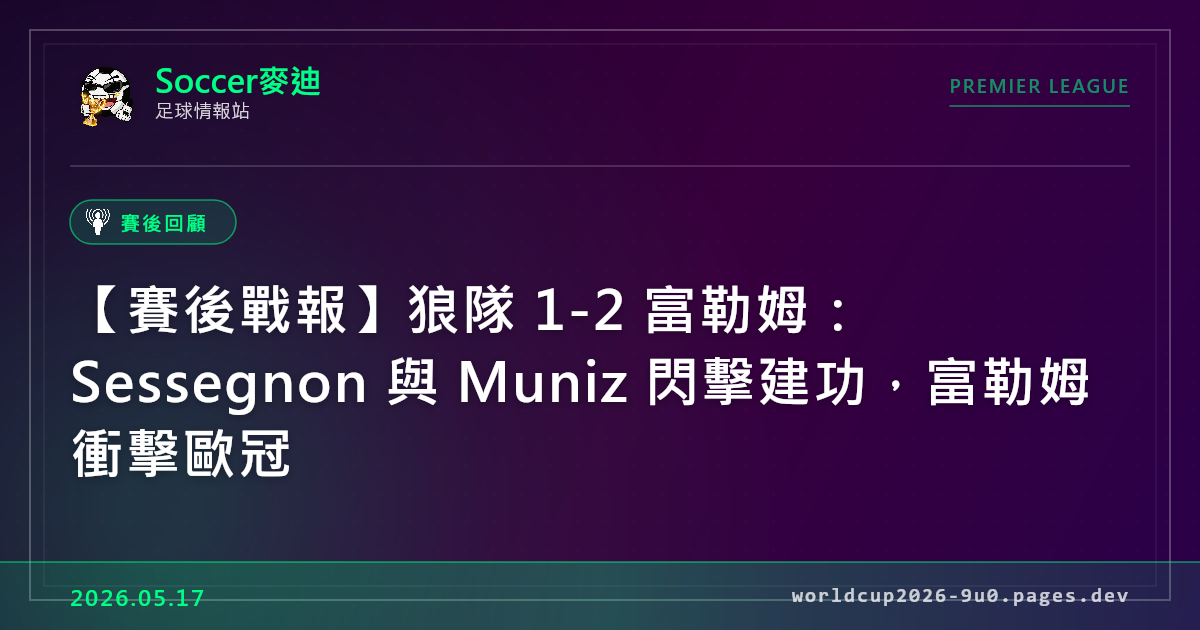
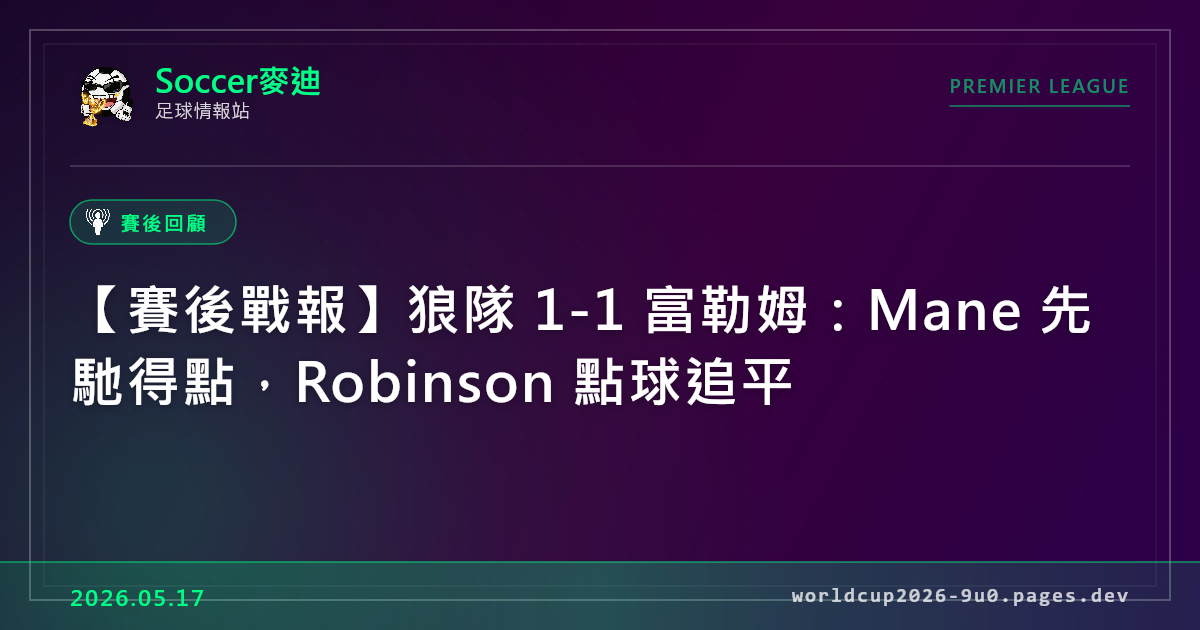
fix(epl-071): stats fact-checker 修正 — WOL vs FUL 正確比分 1-1（非 1-2）
- 原始資料誤植 2025/2 舊比賽（Sessegnon/Muniz/Gomes）
- 正確：Mane 25' + Robinson pen 45+4'，Sessegnon 因傷缺陣
- 同步修正 epl-data-teams.js EPL-MW37-WOL-FUL 比分與進球
- 重建 build:og epl-071

diff --git a/js/epl-data-articles.js b/js/epl-data-articles.js
@@ -3767,39 +3767,36 @@ Michael Carrick 的球隊從第一分鐘就暴露了問題。缺少了停賽的 
   },
   {
     id: 'epl-071',
-    title: '【賽後戰報】狼隊 1-2 富勒姆：Sessegnon 與 Muniz 閃擊建功，富勒姆衝擊歐冠',
+    title: '【賽後戰報】狼隊 1-1 富勒姆：Mane 先馳得點，Robinson 點球追平',
     date: '2026-05-17',
     category: '賽後深度分析',
     tournament: 'epl',
-    summary: '英超第37輪——富勒姆在莫利紐球場以 2-1 擊敗已降級的狼隊，Sessegnon 開場 58 秒破門、Muniz 下半場開場即進。富勒姆升至第九，歐冠資格仍有希望。',
-    content: `<h2>狼隊 1-2 富勒姆｜英超第37輪・5/17（日）22:00 台灣時間・Molineux</h2>
+    summary: '英超第37輪——已降級的狼隊在莫利紐球場與富勒姆 1-1 握手言和。Mateus Mane 25 分鐘先開紀錄，Antonee Robinson 在補時階段以點球扳平。',
+    content: `<h2>狼隊 1-1 富勒姆｜英超第37輪・5/17（日）22:00 台灣時間・Molineux</h2>
 
 <h3>比賽概述</h3>
 
-<p>富勒姆在上下半場開場各打進一球，以 <b>2-1</b> 擊敗已確定降級的狼隊。<b>Ryan Sessegnon</b> 和 <b>Rodrigo Muniz</b> 的閃擊戰術讓狼隊措手不及，Marco Silva 的球隊繼續衝擊歐戰資格。</p>
+<p>已確定降級的狼隊在莫利紐球場與歐戰仍有企圖的富勒姆戰成 <b>1-1</b>。<b>Mateus Mane</b> 上半場為狼隊先開紀錄，但 <b>Antonee Robinson</b> 在上半場補時以點球扳平，最終兩隊各取一分。</p>
 
-<h3>上半場：58 秒的閃擊</h3>
+<h3>上半場：Mane 破僵與 Robinson 點球</h3>
 
-<p>比賽才開場 <b>58 秒</b>，<b>Ryan Sessegnon</b> 便為富勒姆打破僵局——這是他回歸母隊後的首次英超先發，也是他超過兩年來的首粒英超進球。<b>0-1</b>。</p>
+<p><b>25 分鐘</b>，狼隊前鋒 <b>Mateus Mane</b> 打破僵局，為主隊取得領先，<b>1-0</b>。雖已無保級壓力，但狼隊仍展現了在主場的戰鬥精神。</p>
 
-<p>狼隊隨後展開反撲，<b>18 分鐘</b>，<b>Joao Gomes</b> 在禁區外大力抽射，皮球彈地後飛越 Bernd Leno 頭頂入網，<b>1-1</b>。上半場結束時雙方戰成平手。</p>
+<p>富勒姆隨後加強進攻尋求扳平。<b>45+4 分鐘</b>，富勒姆獲得點球機會，左後衛 <b>Antonee Robinson</b> 操刀主罰命中，<b>1-1</b>。雙方帶著平手比分進入下半場。</p>
 
-<h3>下半場：Muniz 64 秒決勝</h3>
+<h3>下半場：互有攻守但無建樹</h3>
 
-<p>下半場甫開始僅 <b>64 秒</b>（<b>46 分鐘</b>），<b>Rodrigo Muniz</b> 便接 Adama Traore 的直塞球，巧妙地挑射過門將 Jose Sa，<b>1-2</b>。富勒姆再次用閃擊戰術打了狼隊一個措手不及。</p>
-
-<p>此後狼隊試圖扳平但始終未能威脅到 Leno 的球門，富勒姆穩守到終場。</p>
+<p>下半場雙方都有得分機會，但均未能再次攻破對方球門。狼隊的防守表現頑強，而富勒姆在最後階段的進攻缺乏臨門一腳的銳利度。最終比賽以 <b>1-1</b> 收場。</p>
 
 <h3>關鍵數據</h3>
 
-<p><b>Ryan Sessegnon</b>：1 球（1'），回歸母隊首秀即進球，極具象徵意義。<br>
-<b>Rodrigo Muniz</b>：1 球（46'），下半場開場即建功，是富勒姆本季的進球保證。<br>
-<b>Joao Gomes</b>：1 球（18'），面對前東家時的精彩遠射。</p>
+<p><b>Mateus Mane</b>：1 球（25'），為已降級的狼隊帶來一些安慰。<br>
+<b>Antonee Robinson</b>：1 球（45+4'，點球），穩定的左後衛在關鍵時刻挺身而出。</p>
 
 <h3>Soccer麥迪觀點</h3>
 
-<p>Marco Silva 的換陣策略奏效——五名輪換球員中有兩人進球。Sessegnon 的回歸故事令人動容，而富勒姆「上下半場各閃擊一球」的比賽模式極為高效。狼隊雖已降級但 Gomes 的表現證明他值得更高的舞台。富勒姆目前距曼城僅 2 分，歐冠資格並非不可能——但最後一輪必須全力以赴。</p>`,
-    tags: ['賽後戰報', '狼隊', '富勒姆', 'Sessegnon', 'Muniz', 'Joao Gomes', 'Marco Silva', '第37輪']
+<p>對富勒姆而言，這一分略顯可惜——面對已降級的狼隊未能拿下三分，可能影響最後一輪的歐戰爭奪。Robinson 的點球避免了更糟的結果，但 Marco Silva 會對球隊無法攻破降級隊的防線感到失望。狼隊雖然前途黯淡，但球員們在最後幾輪展現的職業態度值得尊重。</p>`,
+    tags: ['賽後戰報', '狼隊', '富勒姆', 'Mane', 'Robinson', '第37輪']
   }
 ];
 

diff --git a/js/epl-data-teams.js b/js/epl-data-teams.js
@@ -907,11 +907,10 @@ window.EPL_MATCHES = [
 
   // 狼隊 vs 富勒姆 | 05/17 22:00 台灣時間 (05/17 15:00 BST)
   {id:'EPL-MW37-WOL-FUL', matchday:37, date:'2026-05-17', time:'22:00', home:'WOL', away:'FUL', stage:'league',
-   status:'finished', score:{h:1,a:2}, halfTime:{h:1,a:1},
+   status:'finished', score:{h:1,a:1}, halfTime:{h:1,a:1},
    goals:[
-     {min:'1',player:'Ryan Sessegnon',side:'a'},
-     {min:'18',player:'Joao Gomes',side:'h'},
-     {min:'46',player:'Rodrigo Muniz',side:'a'}
+     {min:'25',player:'Mateus Mane',side:'h'},
+     {min:'45+4',player:'Antonee Robinson',side:'a',note:'pen'}
    ]},
 
   // 紐卡索 vs 西漢姆 | 05/18 00:30 台灣時間 (05/17 17:30 BST)